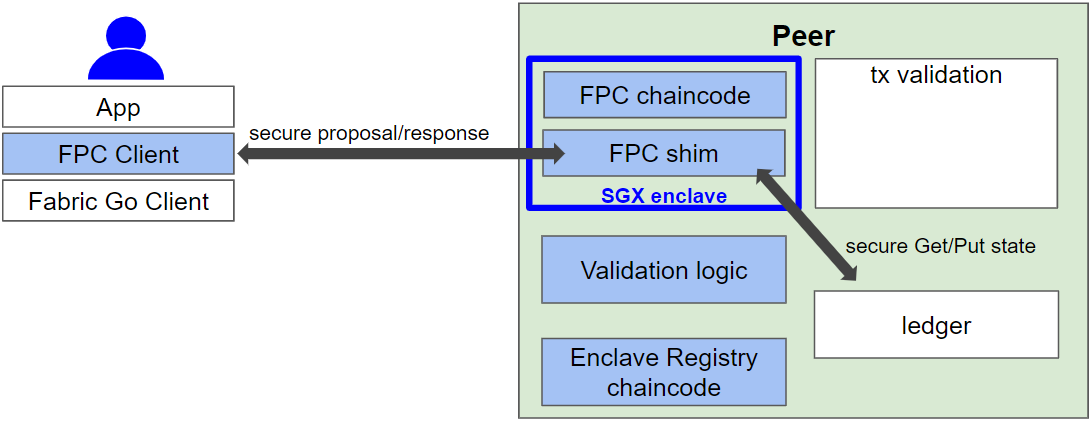
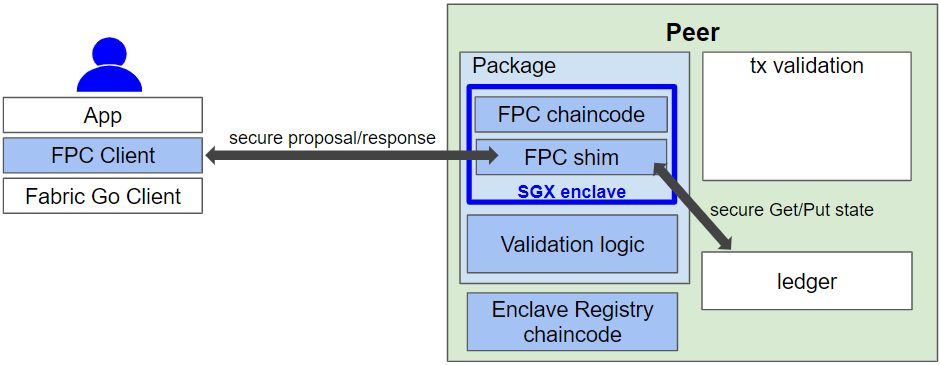
architecture overview

Changed region(s): [[0.0, 0.0, 1.0, 1.0], [0.7404, 0.8438, 0.9872, 0.874], [0.8021, 0.7534, 0.8947, 0.8137]]

diff --git a/text/0000-fabric-private-chaincode-lite.md b/text/0000-fabric-private-chaincode-lite.md
@@ -227,12 +227,6 @@ In order to focus the development resources on the core components of FPC, the M
 -->
 
 
-***TODO describe components in detail***
-- *Chaincode Enclave; split in trusted and untrusted component*
-- *Internal Transaction Flow*
-	- *Enclave Creation / Registration*
-	- *Invocations and Validation*
-- *Enclave Registry Details*
 
 
 ## FPC Lite
@@ -263,9 +257,39 @@ Note such an application would not release any sensitive data conditioned on pri
 
 ## Overview of Architecture
 
-- TODO Add the detailed picture here
-
 ![Encryption](../images/fpc/high-level/peer-architecture.png)
+
+***TODO describe components in detail***
+- *Chaincode Enclave; split in trusted and untrusted component*
+- *Internal Transaction Flow*
+	- *Enclave Creation / Registration*
+	- *Invocations and Validation*
+- *Enclave Registry Details*
+
+The FPC-Lite architecture is constituted by a set of components which are designed to work atop of an unmodified Hyperledger Fabric framework: the FPC chaincode package and the Enclave registry chaincode, which run on the Fabric Peer; the FPC client, which sits onto the Fabric client. The architecture is agnostic to other Fabric components such as the ordering, gossip or membership services.
+ 
+Within the peer, the TEE (i.e., the enclave) determines the trust boundary that separates the sensitive FPC chaincode (and shim) from the rest of system.
+In particular, the TEE enhances confidentiality and integrity for code and data inside the enclave against external threats from untrusted space.
+Also, the code inside the enclave can use secret keys and cryptographic mechanism to securely store (resp. retrieve) any data to (resp. from) the ledger in untrusted space.
+
+The FPC chaincode implements the smart contract logic (see the FPC chaincode development section).
+The FPC shim interface is similar to the Fabric shim interface.
+Most importantly, it implements the security features to protect any sensitive data (e.g., encryption/decryption of ledger data, digital signatures over responses, etc.). Notably, none of these features (or relative cryptographic keys) are exposed to the FPC chaincode.
+
+During an FPC transaction invocation, the FPC shim identifies the endpoint of the secure channel between the FPC client and the FPC chaincode.
+Hence, any transactional information transiting between the Fabric client and the peer is encrypted and integrity protected.
+
+The Enclave Registry is a regular chaincode that helps establish trust in the enclave and the secure channel.
+After an FPC chaincode definition is committed on the channel, the chaincode's hosting enclave must be registered with the Enclave Registry, in order to become operational.
+The registry verifies and store on the ledger the enclave attestation (signed by the trusted hardware manufacturer) and its public keys.
+This allows any channel member to verify the genuinity of the enclave and establish trust in its public keys.
+
+Finally, the Validation Logic verifies enclave responses and persists updates to the ledger.
+In particular, the FPC client performs a regular Fabric invocation to the Validation Logic for validating signed and encrypted enclave responses, before delivering any response to the upper layer.
+The validation logic verifies the correctness of the enclave execution through the Enclave Registry and applies any state updates.
+As the logic is bundled together with the FPC chaincode in a single Fabric chaincode package,
+these updates are eventually committed within the same namespace.
+Hence, they will be visible to the FPC chaincode in a subsequent invocation.
 
 
 ## FPC Shim
@@ -292,7 +316,6 @@ This process is similar to the validation step as described above; the FPC Clien
 
 Also referred to as the Enclave Registry Chaincode (ERCC), this is a component which maintains a list of all Chaincode Enclaves deployed on the peers in a channel.
 The registry associates with each enclave their identity, associated public keys and an attestation linking them. Additionally, the registry manages chaincode specific keys, including a chaincode public encryption key, and facilitates corresponding key-management among authorized Chaincode Enclaves. Lastly, the registry also records information required to bootstrap the validation of attestation. All of this information is committed firmly on the ledger. This enables any Peer in the Channel (even those without SGX) to inspect the Attestation results before taking actions such as connecting to that chaincode or committing transactions produced by an FPC chaincode. Moreover, clients can query the registry to retrieve the chaincode public encryption keys of a particular FPC chaincode so they can send privately transaction proposals for endorsement.
-
 
 
 ## Deployment Process (in detail)
